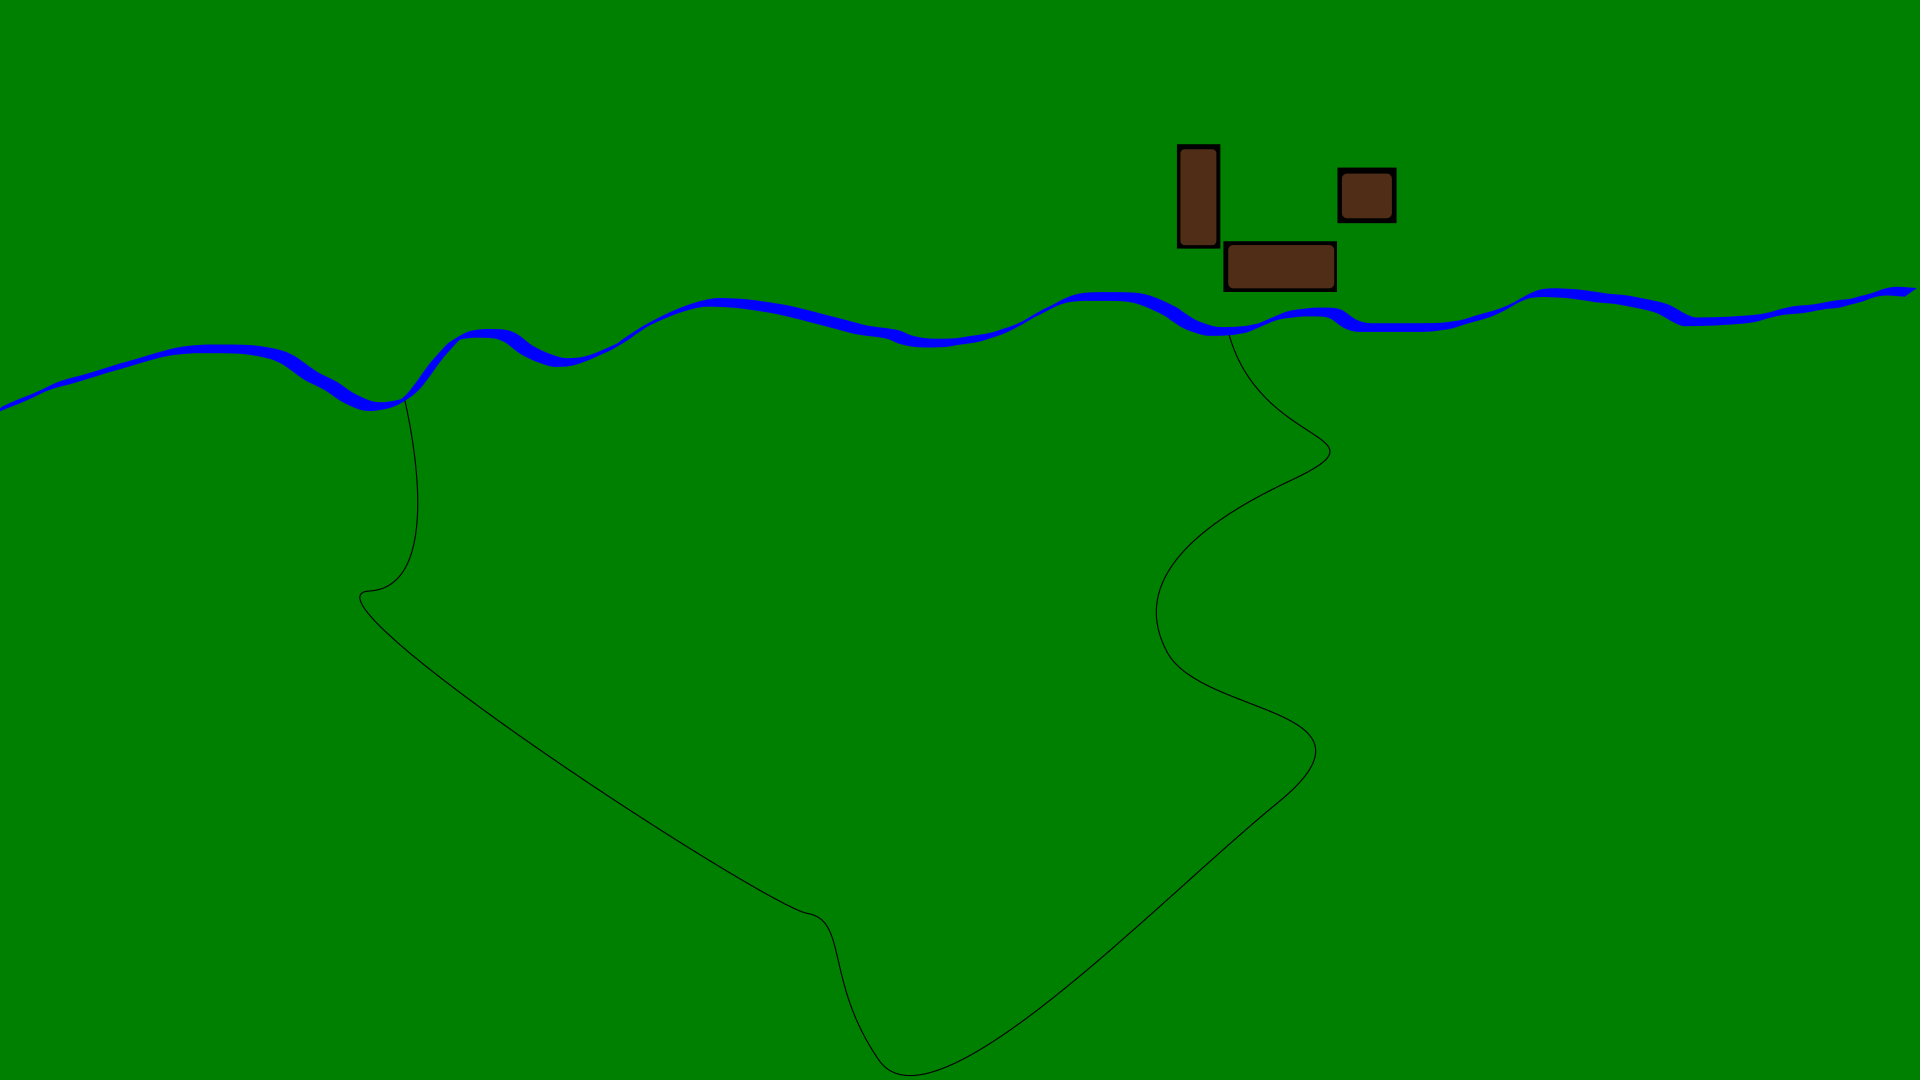
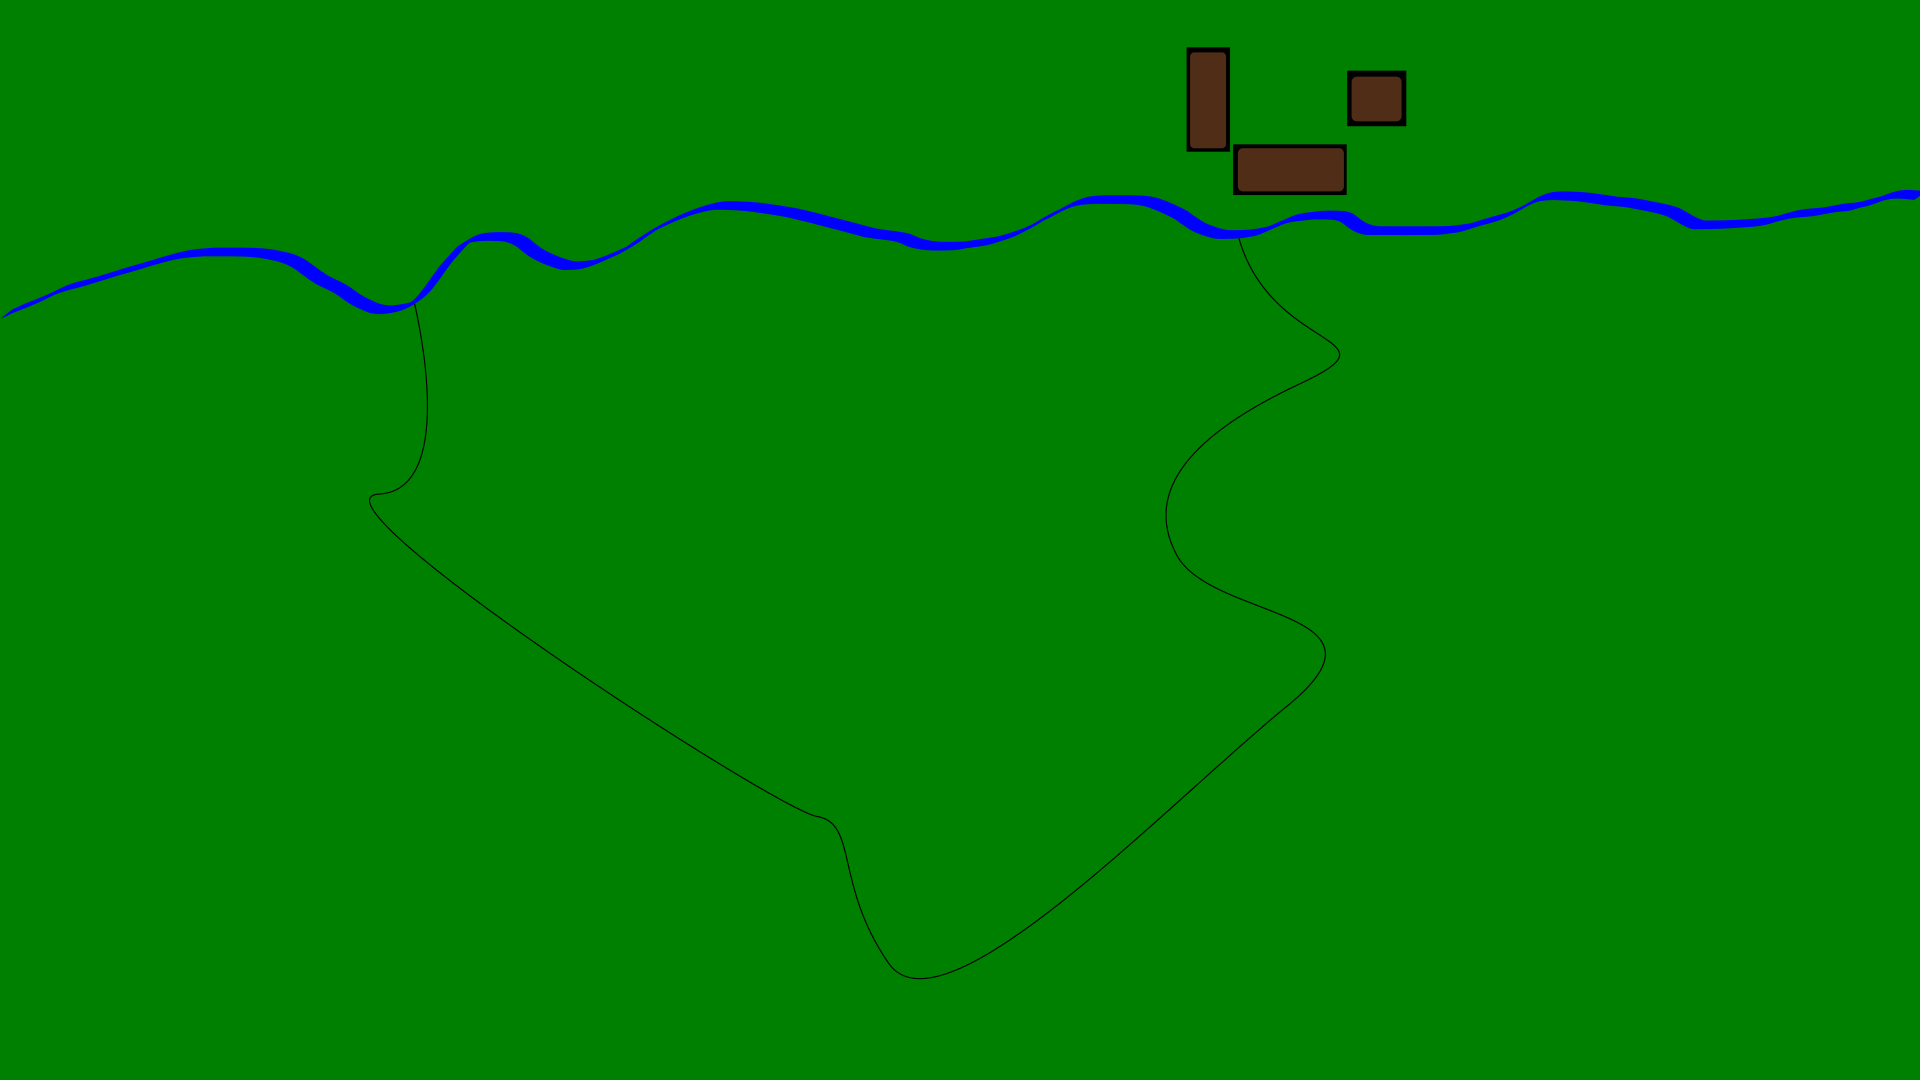
changed background + added svg map file

diff --git a/index.html b/index.html
@@ -6,6 +6,8 @@
 	<link rel="stylesheet" href="style.css">
 </head>
 <body>
+<body style="background-color:#008000">
+
 <div class="container">
 	<div class="navbar">
 		<img src="images/logo.png" class"logo">
@@ -18,7 +20,7 @@
 			</div>
 		</div>
 		<div class="right-col">
-			<img src="images/Rastergrafik.png" id="picture">
+			<img src="images/Rastergrafik1.png" id="picture">
 		</div>
 	</div>
 	<div class="controller">
